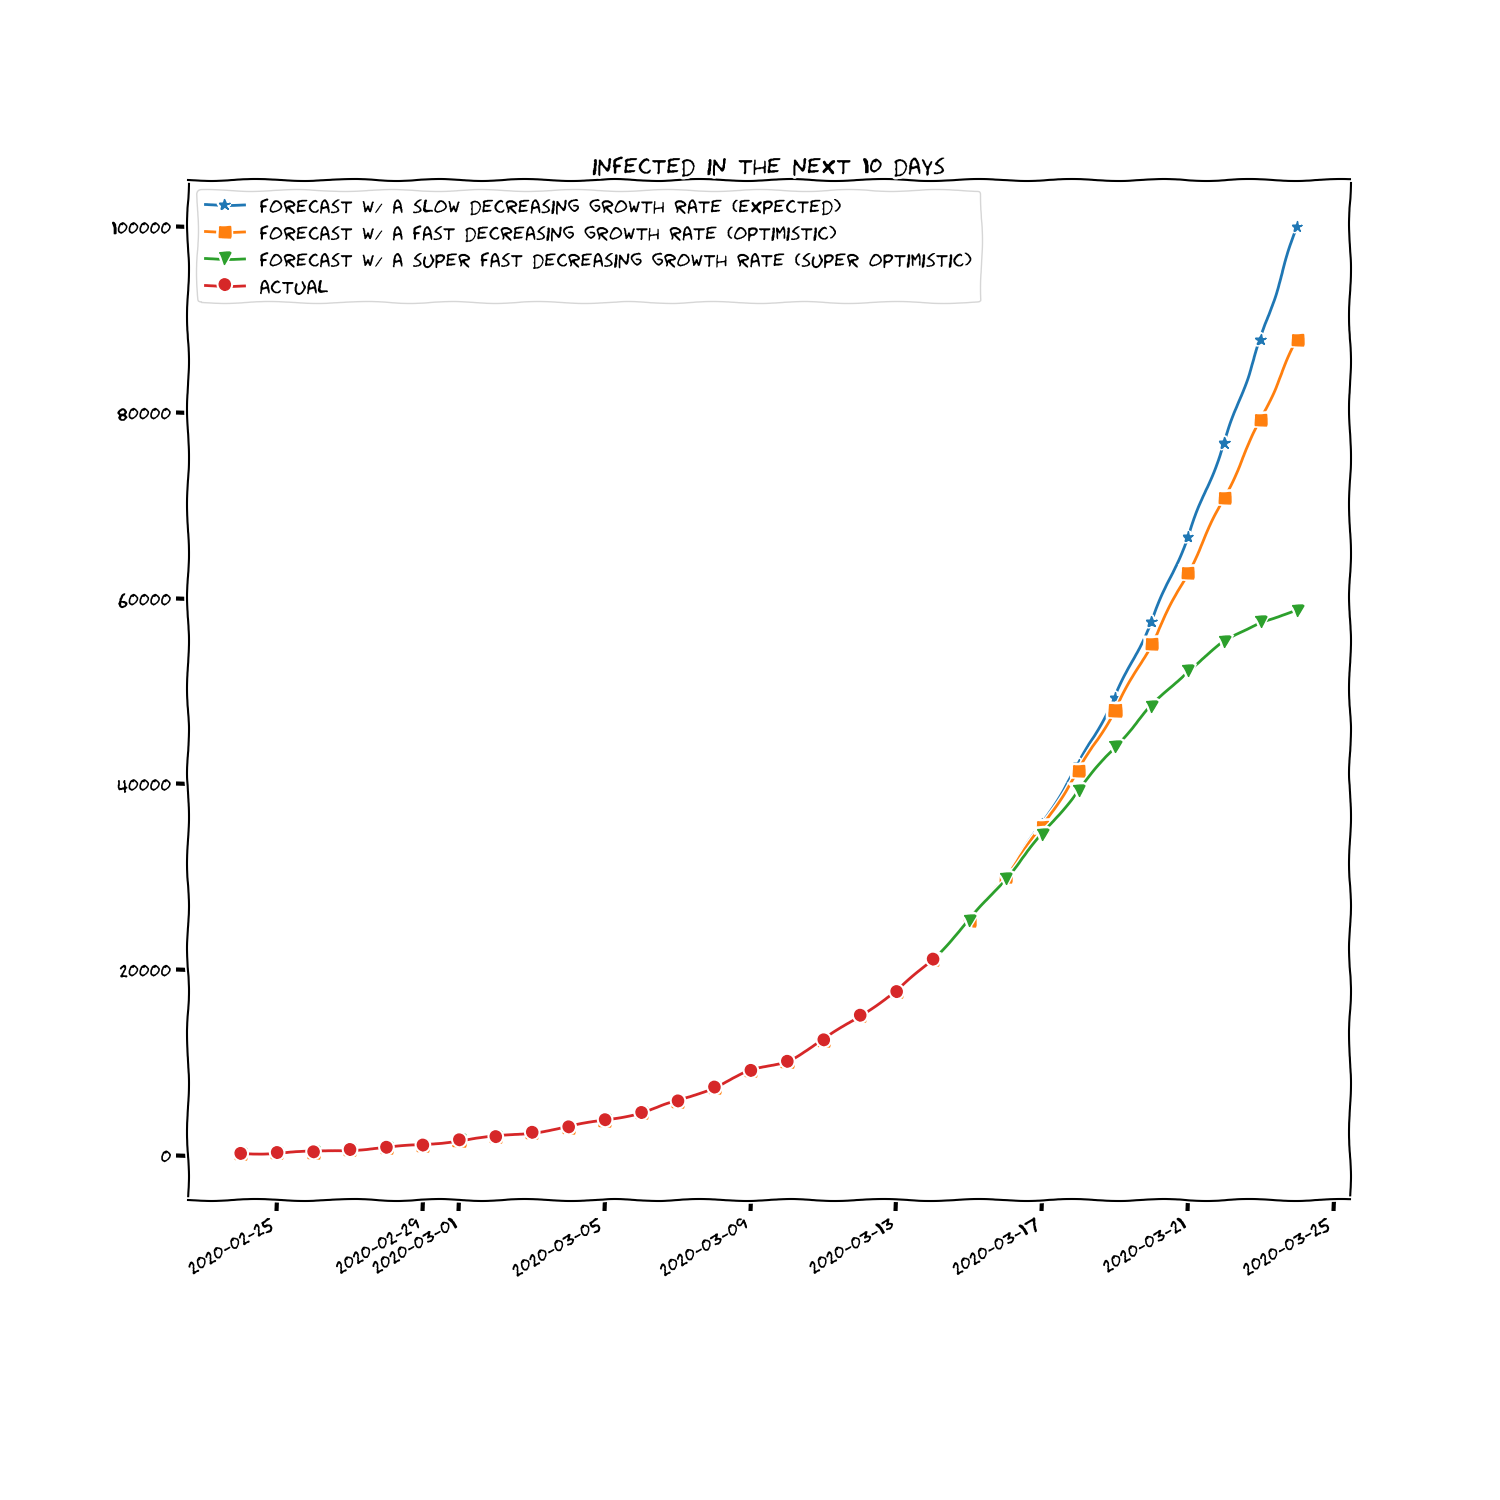
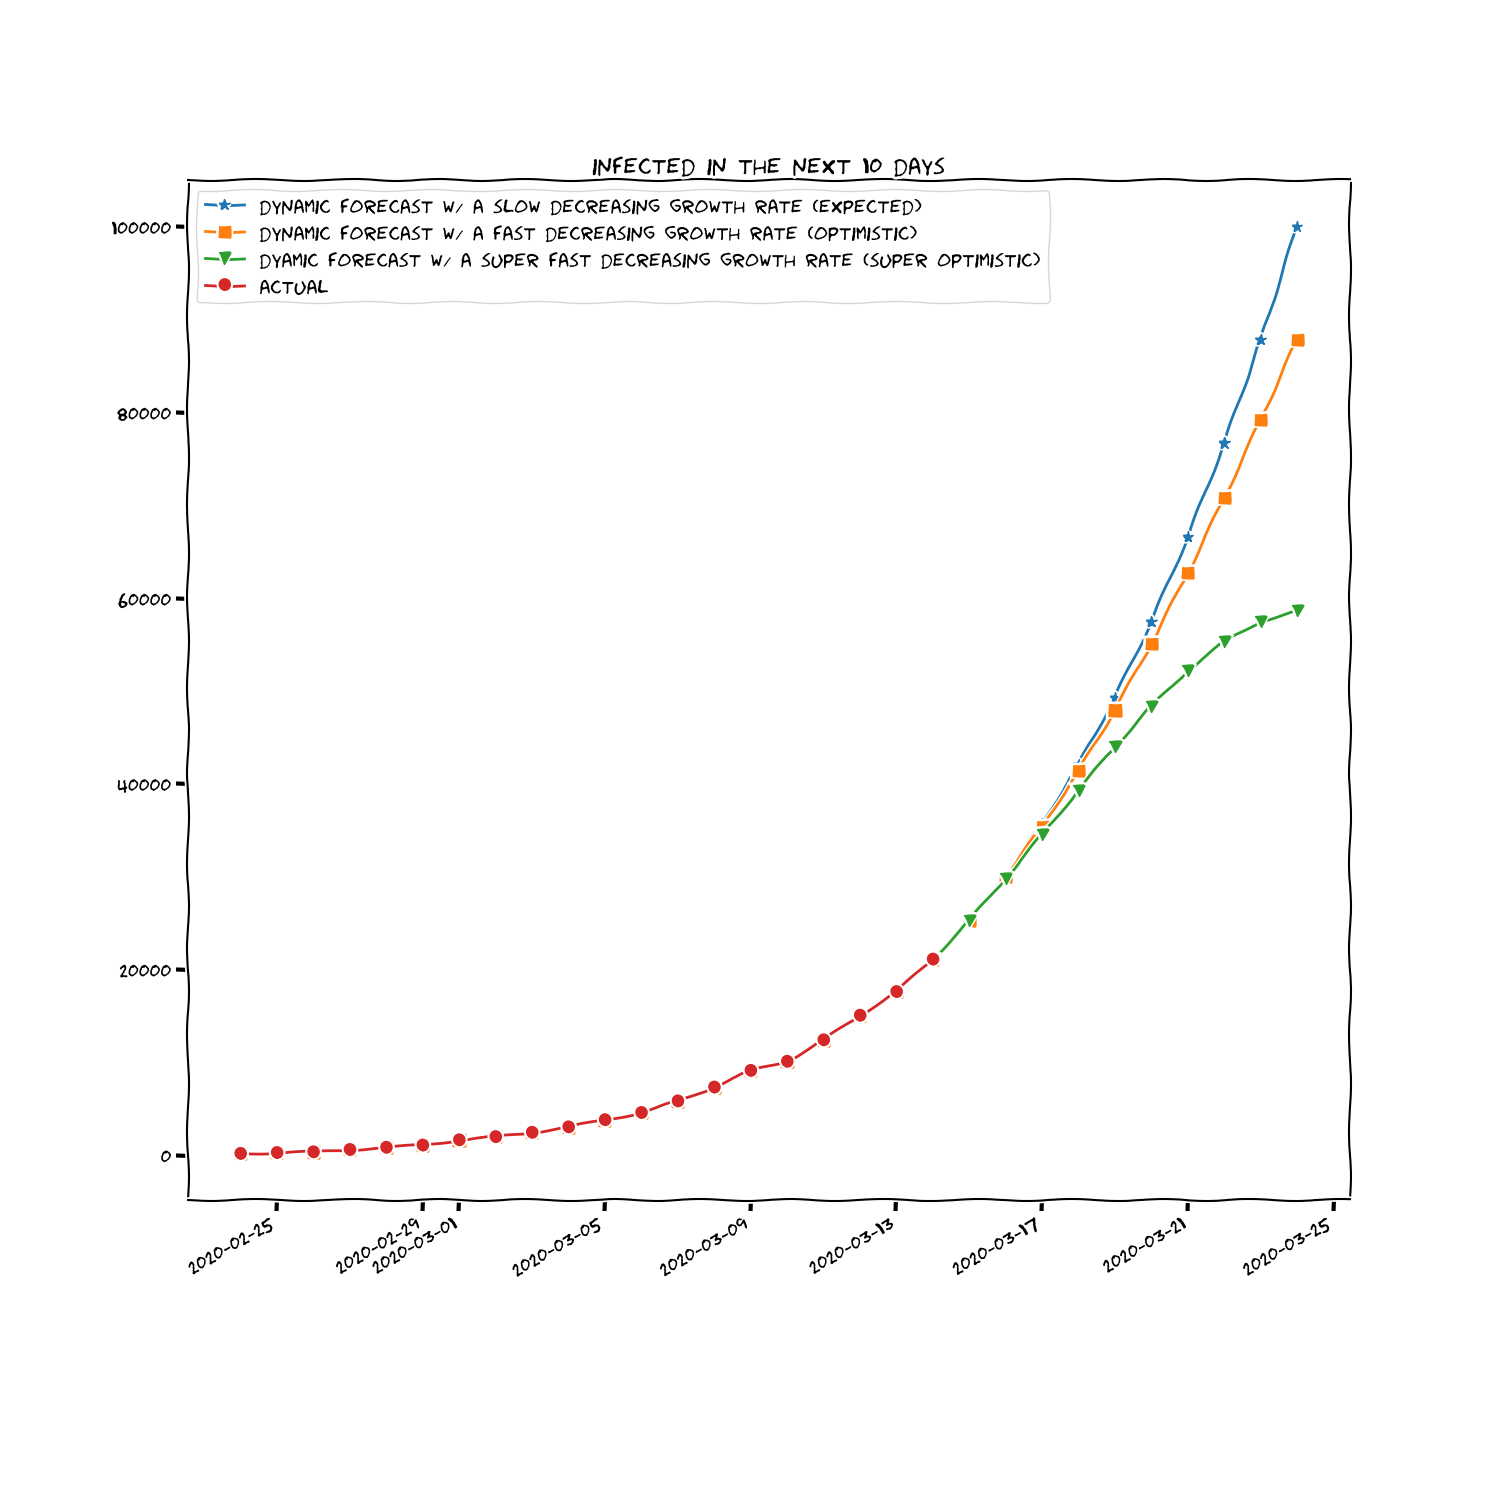
:art: fix legends

Changed region(s): [[0.1533, 0.1227, 0.7053, 0.184]]

diff --git a/main.py b/main.py
@@ -168,13 +168,13 @@ if __name__ == '__main__':
         fig.autofmt_xdate()
 
         ax.plot(dates_forecast, infected_forecast_optimistic, '*-',
-                label='forecast w/ growth rate '
+                label='static forecast w/ growth rate '
                       f'{growth_rate[-1] - 0.05:.2f}\n(optimistic)')
         ax.plot(dates_forecast, infected_forecast, 's-',
-                label='forecast w/ the current growth rate'
+                label='static forecast w/ the current growth rate'
                       f'\n(pessimistic)')
         ax.plot(dates_forecast, infected_forecast_pessimistic, 'v-',
-                label='forecast w/ growth rate '
+                label='static forecast w/ growth rate '
                       f'{growth_rate[-1] + 0.05:.2f}\n(super pessimistic)')
 
         ax.plot(dates, infected, 'o-', label='actual')
@@ -189,11 +189,11 @@ if __name__ == '__main__':
         fig.autofmt_xdate()
 
         ax.plot(dates_dyn_forecast, infected_dyn_forecast, '*-',
-                label='forecast w/ a slow decreasing growth rate (expected)')
+                label='dynamic forecast w/ a slow decreasing growth rate (expected)')
         ax.plot(dates_dyn_forecast, infected_dyn_forecast_optimistic, 's-',
-                label='forecast w/ a fast decreasing growth rate (optimistic)')
+                label='dynamic forecast w/ a fast decreasing growth rate (optimistic)')
         ax.plot(dates_dyn_forecast, infected_dyn_forecast_super_optimistic, 'v-',
-                label='forecast w/ a super fast decreasing growth rate (super optimistic)')
+                label='dyamic forecast w/ a super fast decreasing growth rate (super optimistic)')
         ax.plot(dates, infected, 'o-', label='actual')
 
         ax.set_title(f'infected in the next 10 days')
